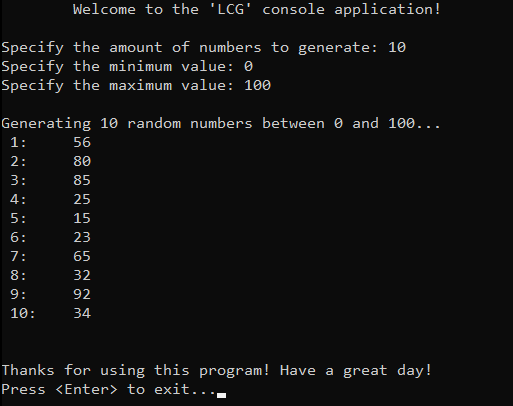
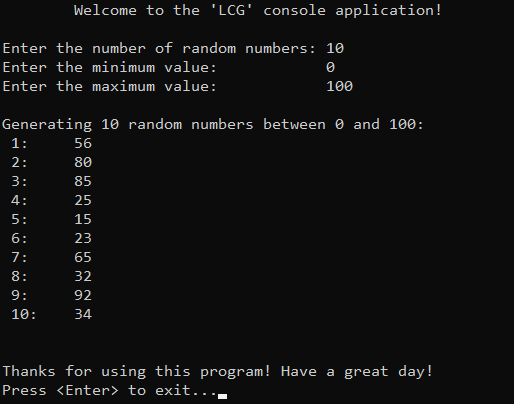
Maint 'LCG': typos, code style, formatting.

diff --git a/Algorithms/RNG/LCG/Source/Main.cpp b/Algorithms/RNG/LCG/Source/Main.cpp
@@ -12,21 +12,20 @@ int main() {
 	// Greet
 	std::cout << "\tWelcome to the 'LCG' console application!\n\n";
 
-	// Prompt user for input
-	std::cout << "Specify the amount of numbers to generate: ";
-	int numbers = 0;
-	std::cin >> numbers;
-	std::cout << "Specify the minimum value: ";
+	// Prompt the user for input
+	std::cout << "Enter the number of random numbers: ";
+	int n = 0;
+	std::cin >> n;
+	std::cout << "Enter the minimum value:\t    ";
 	int minVal = 0;
 	std::cin >> minVal;
-	std::cout << "Specify the maximum value: ";
+	std::cout << "Enter the maximum value:\t    ";
 	int maxVal = 0;
 	std::cin >> maxVal;
 
 	// Generate random numbers within the user-defined range
-	std::cout << "\nGenerating " << numbers << " random numbers between "
-		<< minVal << " and " << maxVal << "...\n";
-	for (int i = 0; i < numbers; i++) {
+	std::cout << "\nGenerating " << n << " random numbers between " << minVal << " and " << maxVal << ":\n";
+	for (int i = 0; i < n; ++i) {
 		int randomNumber = minVal + (lcg() % (maxVal - minVal + 1));
 		std::cout << " " << i + 1 << ":\t" << randomNumber << std::endl;
 	}	
@@ -35,6 +34,7 @@ int main() {
 	// Exit
 	std::cout << "\nThanks for using this program! Have a great day!\n";
 	std::cout << "Press <Enter> to exit...";
+	std::cin.ignore();
 	std::cin.get();
 	return 0;
 }

diff --git a/Algorithms/RNG/LCG/LCG.md b/Algorithms/RNG/LCG/LCG.md
@@ -7,7 +7,7 @@
   - [Design Decisions](#design-decisions)
   - [Complete Implementation](#complete-implementation)
   - [Detailed Walkthrough](#detailed-walkthrough)
-- [📊 Analysis](#-analysis)
+- [📊 Analysis (Exploring Options)](#-analysis-exploring-options)
 - [📝 Application](#-application)
   - [Common Use Cases](#common-use-cases)
   - [Some Practical Problems](#some-practical-problems)
@@ -74,7 +74,7 @@ To prioritize simplicity and emphasize algorithm itself, several design decision
 
 
 ## Complete Implementation
-PRNG is implemented within the function `lcg()` (and parameters as global variables), which is declared in `LCG.h` header file and defined in `LCG.cpp` source file. This approach is adopted to ensure encapsulation, modularity and compilation efficiency. Examination of generated values is conducted within the `main()` function located in the `Main.cpp` file. Below you can find related code snippets.
+PRNG is implemented within the function `lcg()` (and parameters as global variables), which is declared in [LCG.h](https://github.com/vezzolter/DSA/blob/main/Algorithms/RNG/LCG/Include/LCG.h) header file and defined in [LCG.cpp](https://github.com/vezzolter/DSA/blob/main/Algorithms/RNG/LCG/Source/LCG.cpp) source file. This approach is adopted to ensure encapsulation, modularity and compilation efficiency. Examination of generated values is conducted within the `main()` function located in the [Main.cpp](https://github.com/vezzolter/DSA/blob/main/Algorithms/RNG/LCG/Source/Main.cpp) file. Below you can find related code snippets.
 
 ```cpp
 const unsigned long long a = 1664525;          // Multiplier
@@ -107,7 +107,7 @@ unsigned long long lcg() {
 ```
 4. To make the generated value more practical and human-readable, a user-defined range can be applied. The range is defined by `maxVal` and `minVal`, which translates to `[minVal, maxVal)` and adding $1$ ensures inclusivity of the maximum value, resulting in the range `[minVal, maxVal]`. The modulo operator is then used to confine the LCG output within `[0, range]`. Adding `minVal` shifts the range to `[minVal, maxVal]`, ensuring the final value is within the user’s desired range, therefore can be tested easily.
 ```cpp
-	for (int i = 0; i < numbers; i++) {
+	for (int i = 0; i < n; ++i) {
 		int randomNumber = minVal + (lcg() % (maxVal - minVal + 1));
 		std::cout << " " << i + 1 << ":\t" << randomNumber << std::endl;
 	}	
@@ -115,7 +115,7 @@ unsigned long long lcg() {
 
 
 
-# &#128202; Analysis
+# &#128202; Analysis (Exploring Options)
 Will be updated in future...
 
 > **Note:** I'm currently considering how to best structure this section, as it involves several characteristics that I find intriguing to explore, such as period, distribution, predictability, and correlation.
@@ -127,11 +127,11 @@ Understanding some of the most well-known use cases of an algorithm is crucial f
 
 
 ## Common Use Cases
-- **Basic Randomness Generation** — algorithm is primarily used in situations where just enough randomness is needed for non-critical parts of an application. Its simple implementation and sufficient efficiency make it ideal for simulating random behavior or generating varied outputs without the overhead of more complex algorithms.
+- **Basic Randomness Generation** — PRNG is primarily used in situations where just enough randomness is needed for non-critical parts of an application. Its simple implementation and sufficient efficiency make it ideal for simulating random behavior or generating varied outputs without the overhead of more complex algorithms.
 
 
 ## Some Practical Problems
-- Refer to RNG's practical problems
+- Refer to [RNG's Practical Problems](../RNG.md#some-practical-problems) for examples of problems that explore randomness as a fundamental concept.
 
 
 
@@ -161,7 +161,7 @@ For contact details and additional information, please refer to the [root direct
 
 ---
 &#127760; **Web-Resources:**  
-- [Linear congruential generator](https://en.wikipedia.org/wiki/Linear_congruential_generator)
+- [Linear congruential generator](https://en.wikipedia.org/wiki/Linear_congruential_generator) (Wikipedia)
 
 
 
